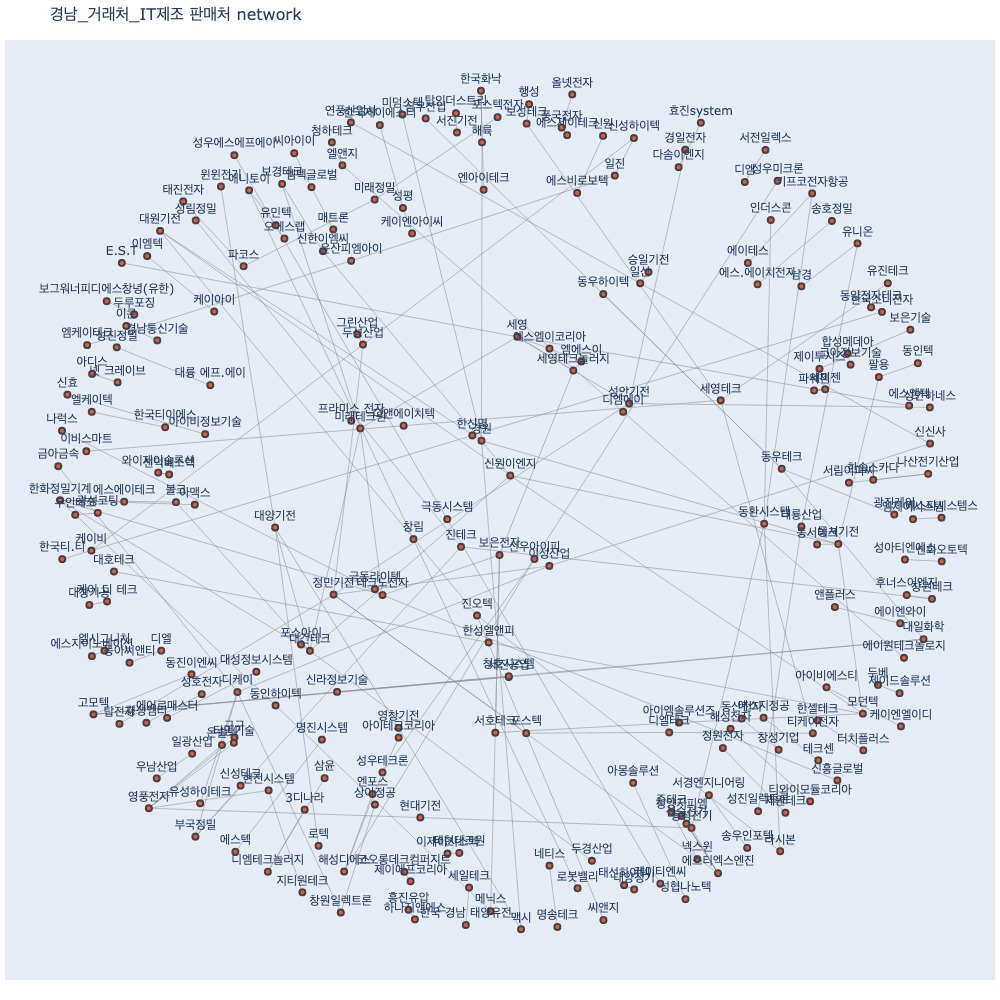
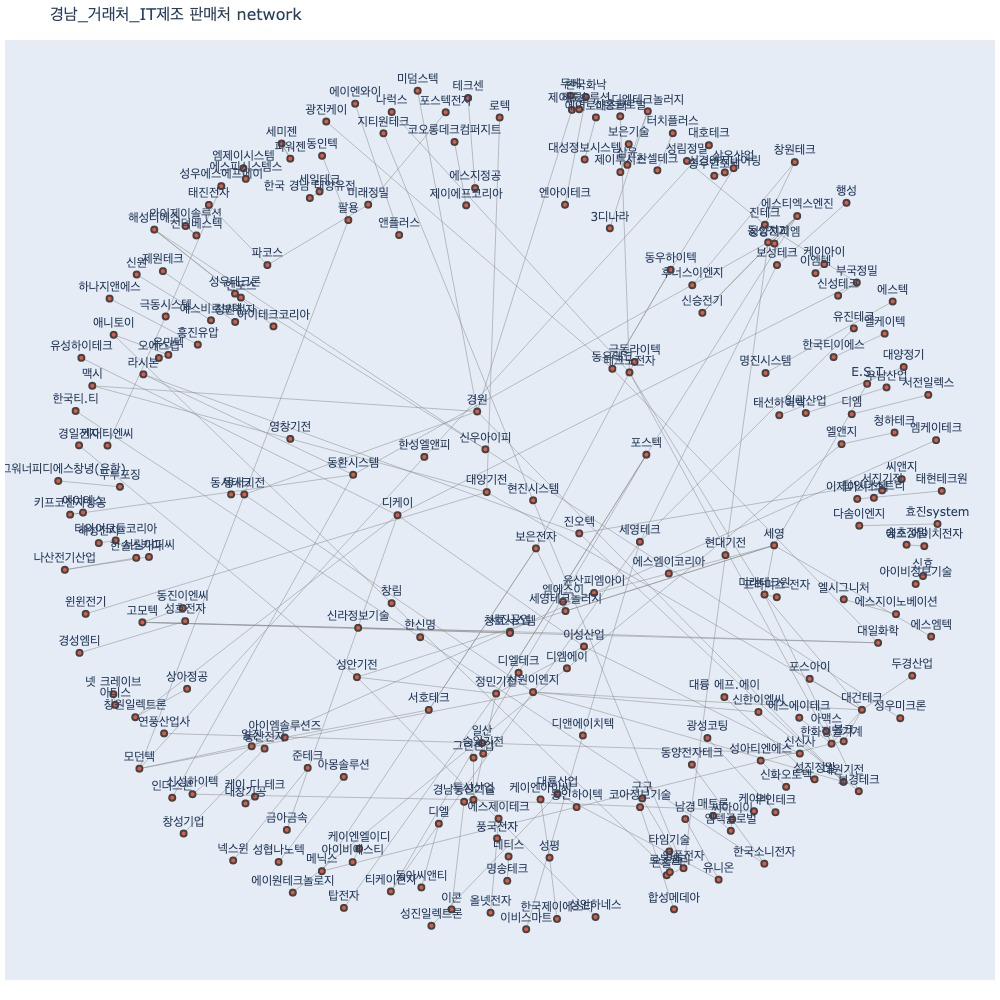
add top5 seller

Changed region(s): [[0.0, 0.062, 0.992, 0.93]]

diff --git a/analysis/script/utils/plot.py b/analysis/script/utils/plot.py
@@ -51,9 +51,13 @@ def parse_data(df, type = 4):
         cnt = cnt = [(a, b) for a, b in zip(temp['업체명'], temp['거래처명']) if (a in selected) & (b in selected)]
         return cnt
 
-    if type == 4:
+    if (type == 4) or (type == 5):
         # 구매처가 top5인 부분만 남기기
-        temp = df[df['거래구분'] == '구매처']
+        if type == 4:
+            temp = df[df['거래구분'] == '구매처']
+        if type == 5:
+            temp = df[df['거래구분'] == '판매처']
+
         top5 = temp.groupby(['업체명']).sum()['거래금액'].sort_values(ascending=False).index[:5]
 
         cnt_list = []
@@ -199,7 +203,7 @@ class Network_graph():
         G = nx.DiGraph()
         G.add_edges_from(cnt, relation='cnt')
         pos = nx.spring_layout(G)  # 각 노드, 엣지의 position 정보
-        data = nx.get_networkx_edges(G, pos, edgelist=cnt)
+        data = nx.draw_networkx_edges(G, pos, edgelist=cnt)
         plt.close()
 
         edge_x = []
@@ -256,7 +260,7 @@ class Network_graph():
     # type 4 : top5 plot
     def plot(self , title , type):
 
-        if type == 4:
+        if (type == 4) or (type == 5):
             node_list, cnt_list, w_list, top5 = parse_data(self.df , type )
 
             # top5 별로 그래프를 각각 그림 즉 5개 return
@@ -277,11 +281,16 @@ class Network_graph():
                 edge_traces , annotation_list = self._get_edge_trace(G , w)
                 node_trace = self._get_node_trace(G , top5[i])
 
-                # edge trace 와 Node를 활용해 ㅔㅣㅐ쌰ㅜㅎ
+                if type == 4:
+                    text = f'{title} {top5[i]} 구매처 rank {i}'
+                if type == 5:
+                    text = f'{title} {top5[i]} 판매처 rank {i}'
+
+                # edge trace 와 Node를 활용해
                 fig = go.Figure(
                             data= [*edge_traces , node_trace],
                              layout=go.Layout(
-                                title=f'{title} {top5[i]}',
+                                title= text,
                                 titlefont_size=16,
                                                 showlegend=False,
                                 margin=dict(b=20,l=5,r=5,t=40),
@@ -291,7 +300,7 @@ class Network_graph():
                 fig.update_layout(
                     annotations = annotation_list
                 )
-                fig.write_image(f'../output/{title}_{top5[i]}.jpg')
+                fig.write_image(f'../output/{title}_{top5[i]}_rank_{i}.jpg')
 
                 if self.show == False:
                     plt.close()
